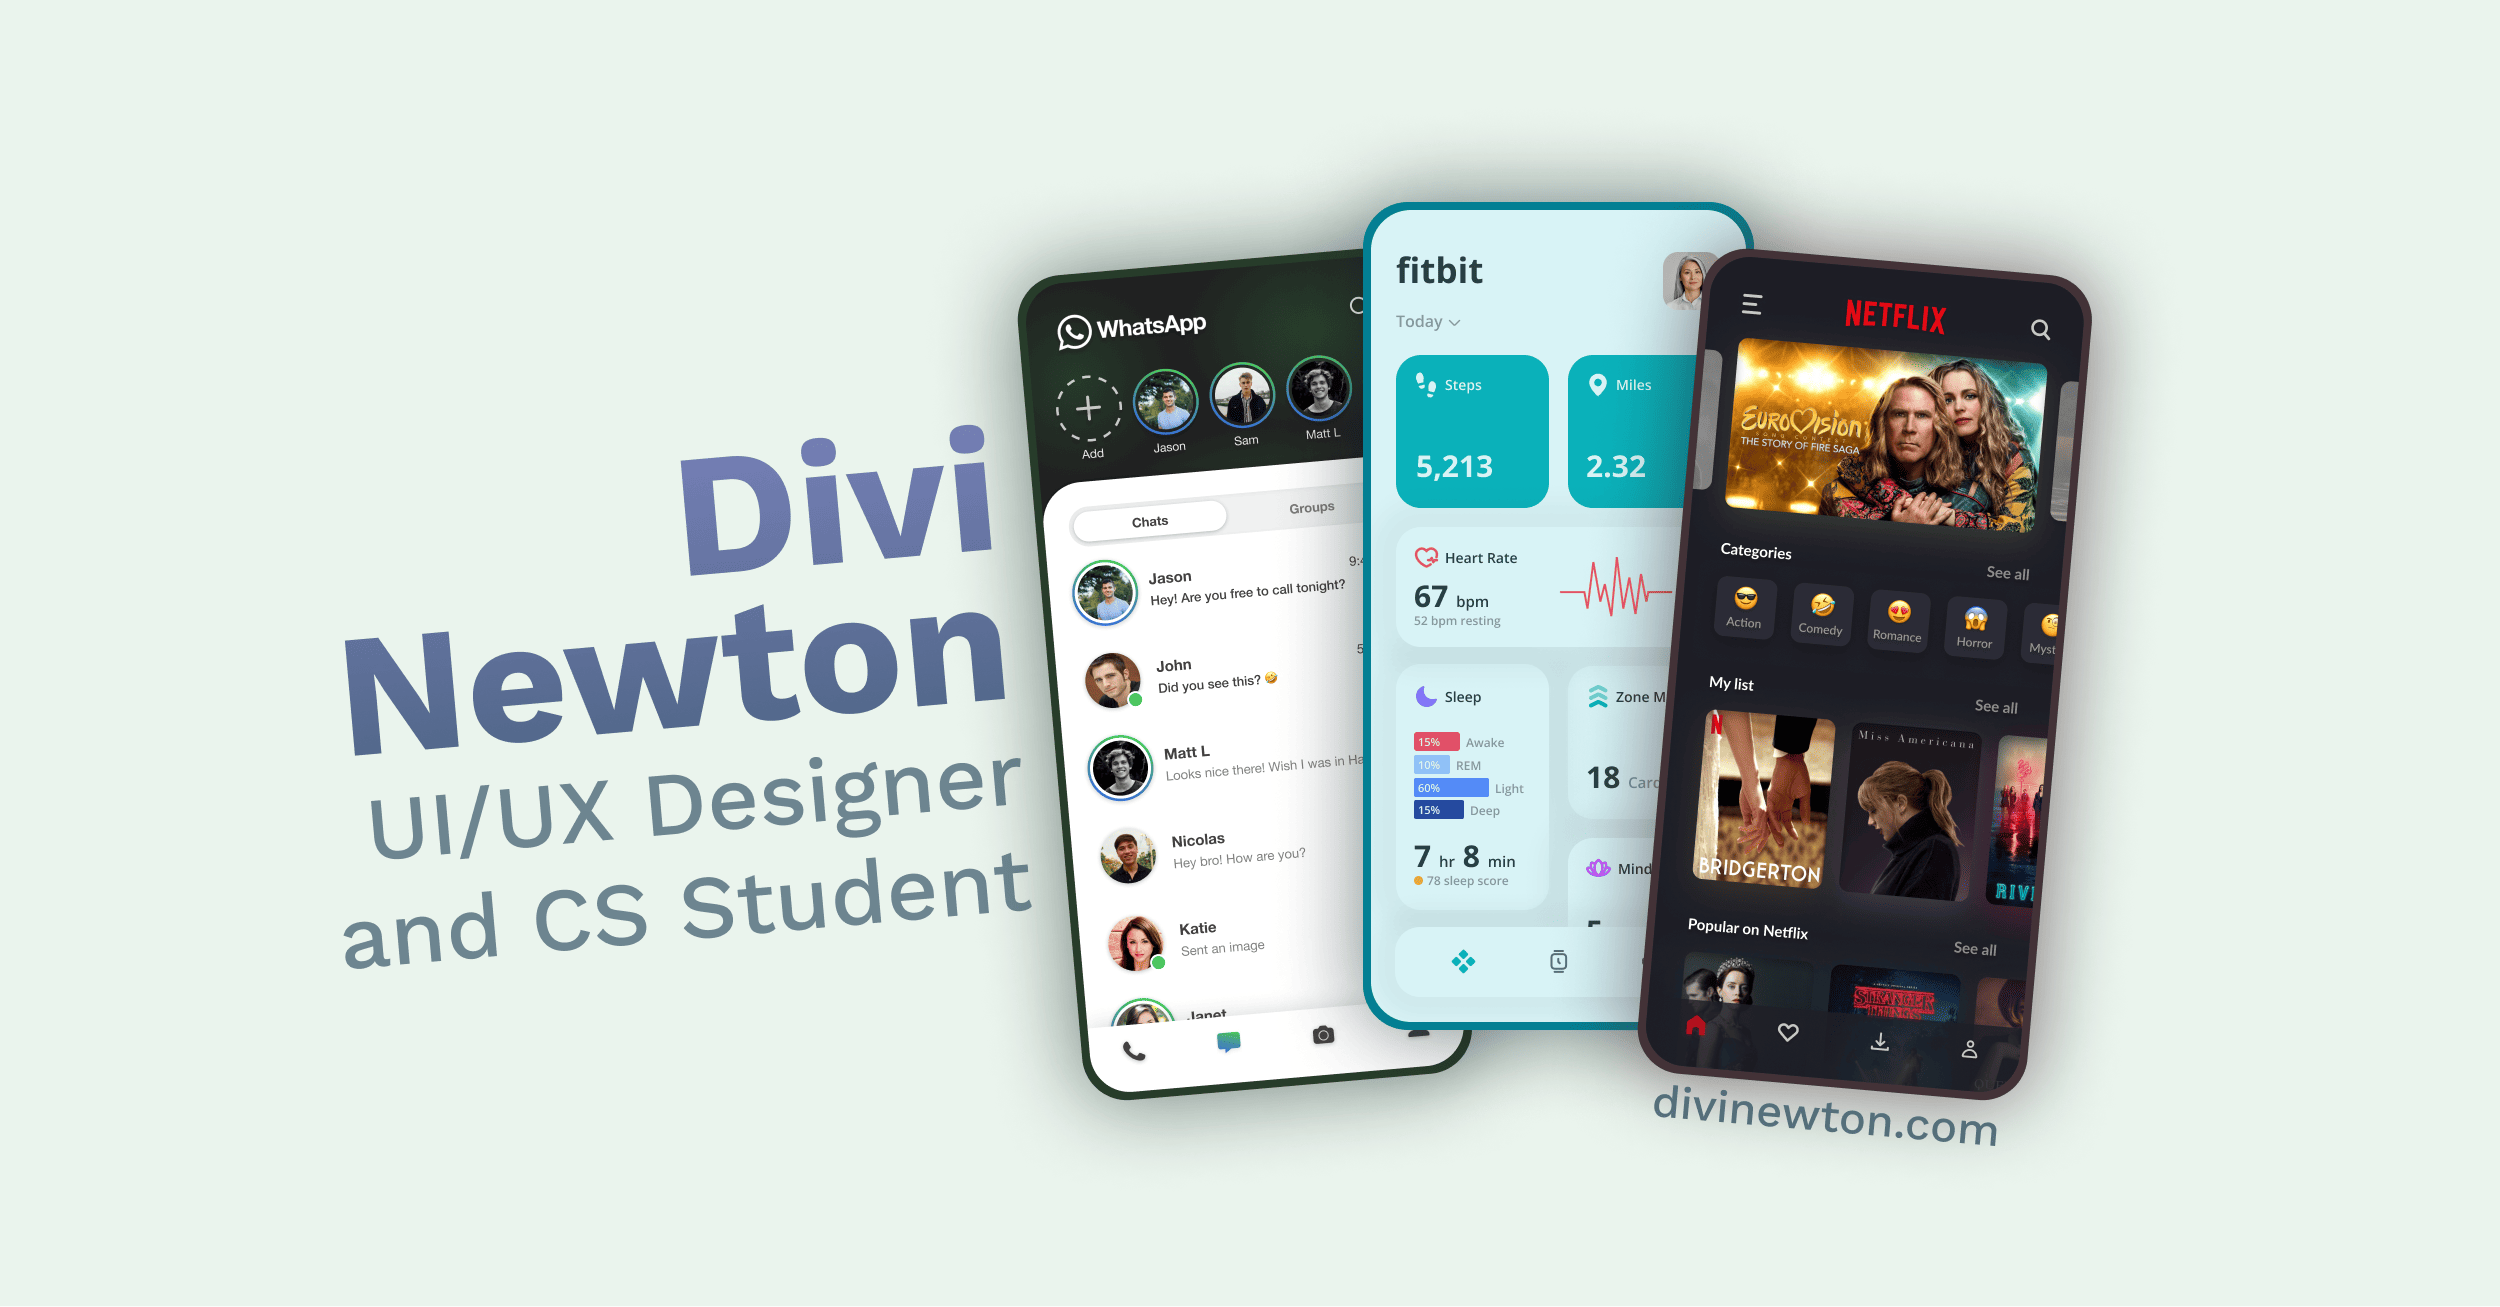
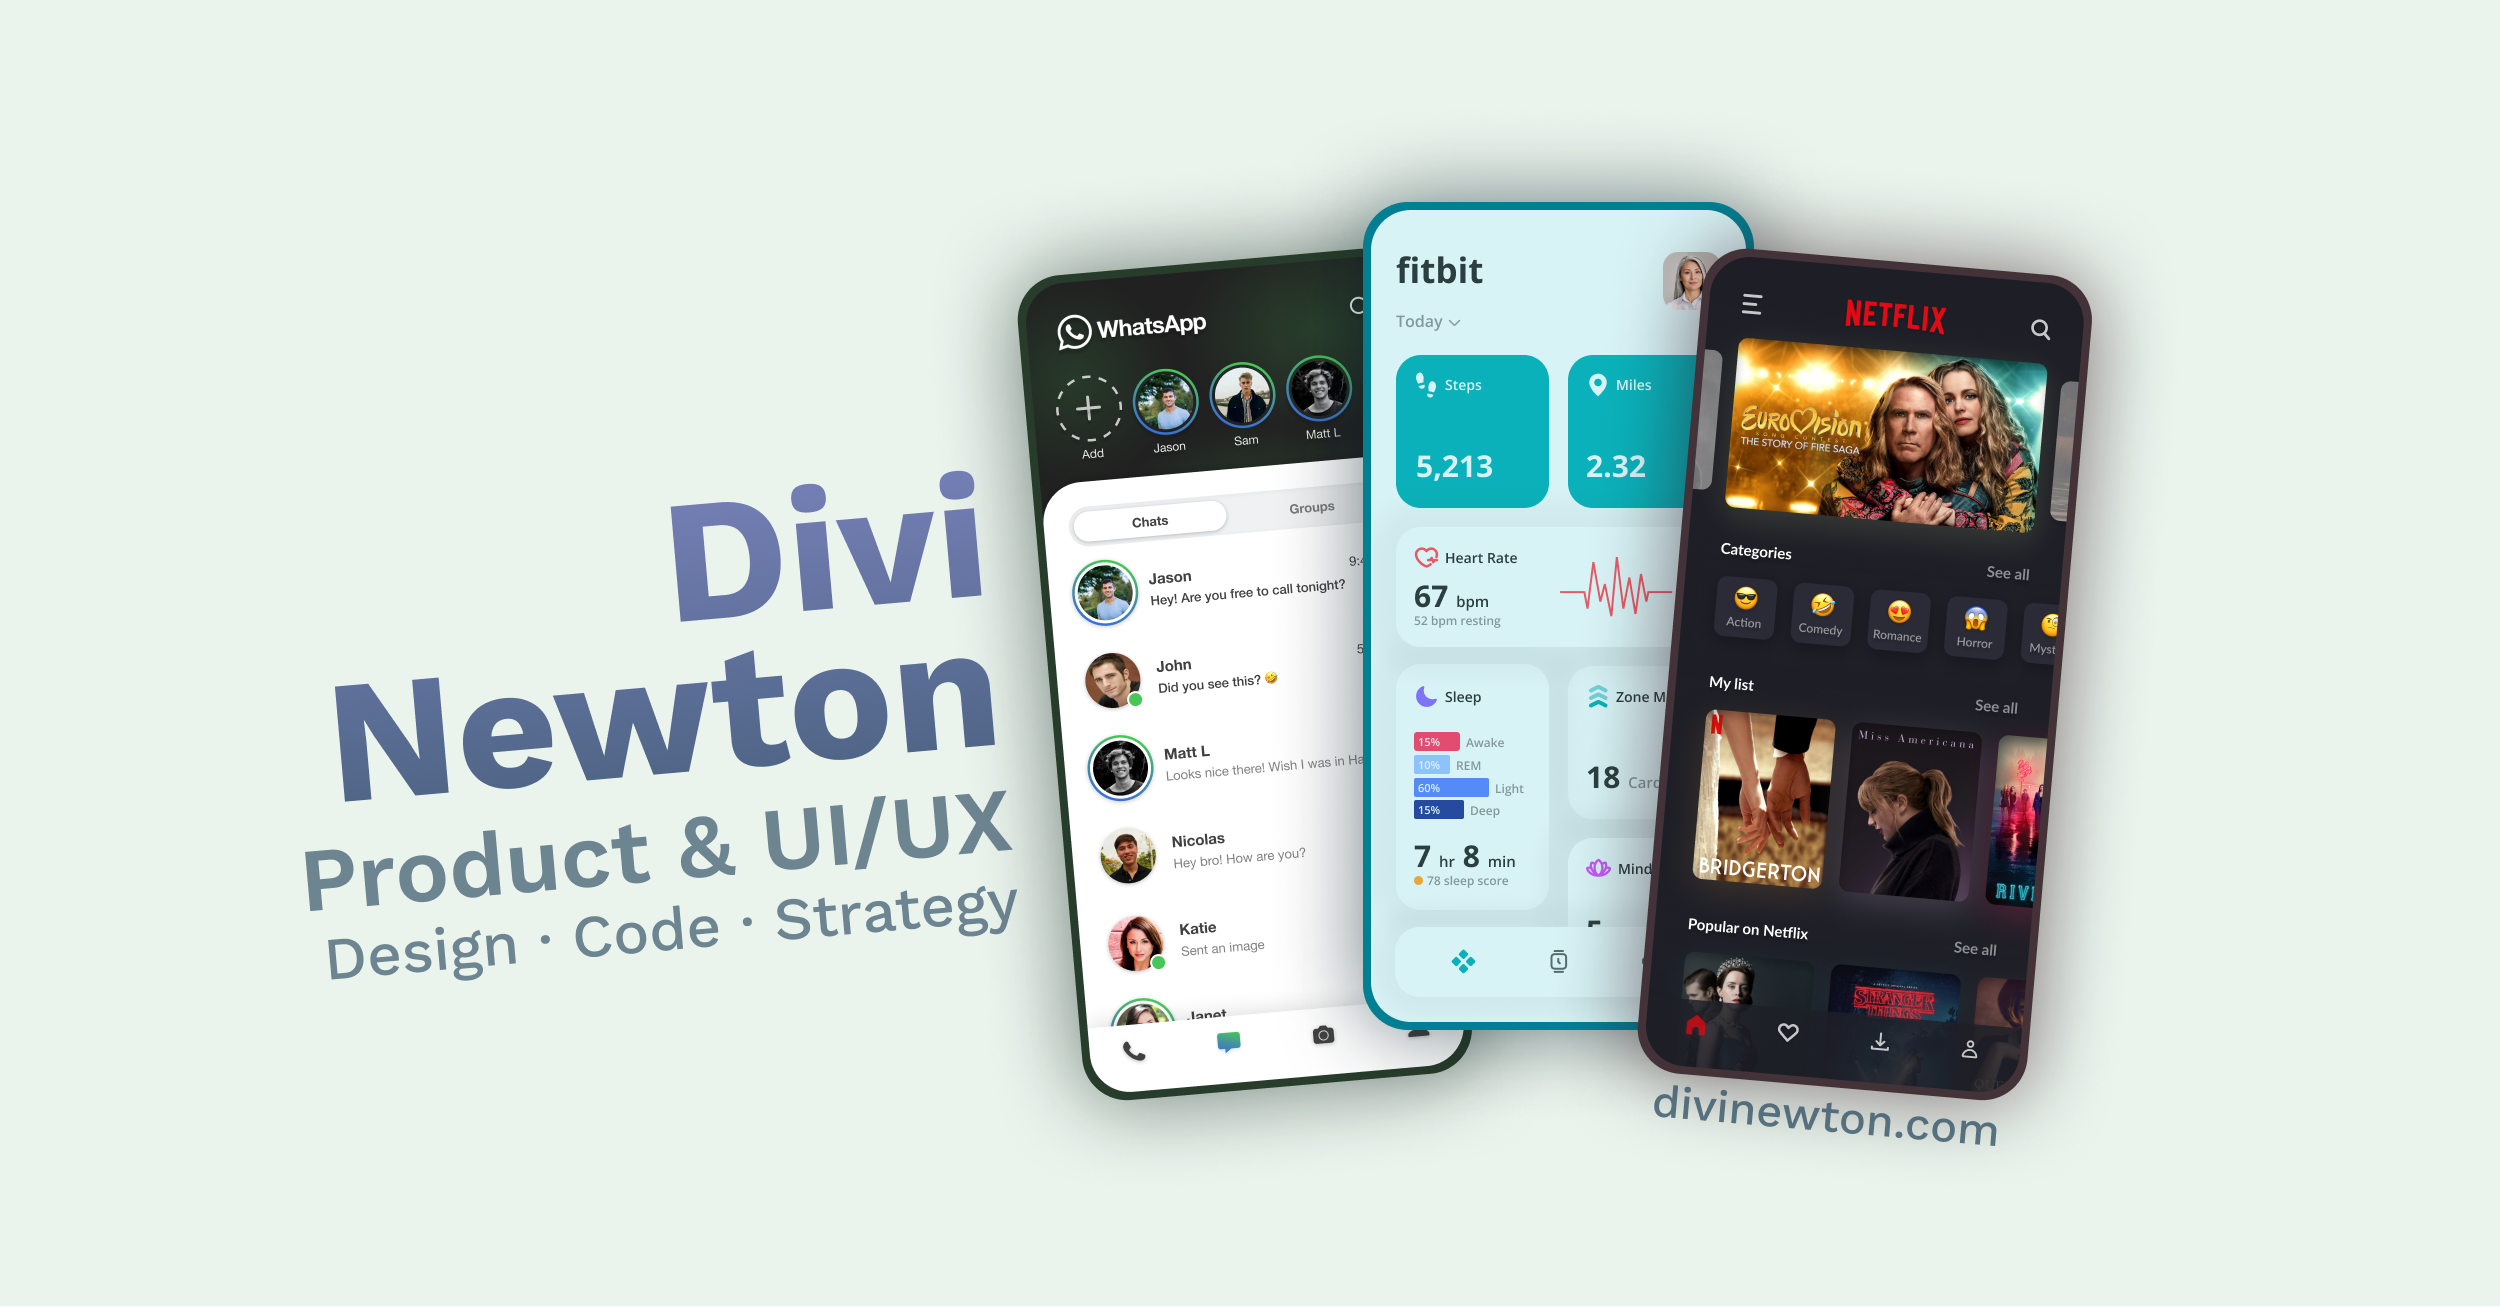
Revise site metadata, about text, and image
Update site title, meta description, Open Graph tags (og:title, og:description, og:site_name) and schema name to the new branding 'Design · Code · Strategy'. Refresh the About paragraph to emphasize product strategy, UI/UX design, and software development as a Computer Science and Graphic Design student. Replace the promo image (images/promo-img.png) with an updated binary.

Changed region(s): [[0.1248, 0.306, 0.4056, 0.7651], [0.78, 0.6121, 0.8112, 0.6427], [0.7488, 0.2754, 0.78, 0.306]]

diff --git a/index.html b/index.html
@@ -4,16 +4,16 @@
         <script>(function(w,d,s,l,i){w[l]=w[l]||[];w[l].push({'gtm.start': new Date().getTime(),event:'gtm.js'});var f=d.getElementsByTagName(s)[0],j=d.createElement(s),dl=l!='dataLayer'?'&l='+l:'';j.async=true;j.src='https://www.googletagmanager.com/gtm.js?id='+i+dl;f.parentNode.insertBefore(j,f);})(window,document,'script','dataLayer','GTM-KBXGCNPB');</script>
         <meta charset="UTF-8">
         <meta name="viewport" content="width=device-width, initial-scale=1.0">
-        <title>Divi Newton - UI/UX Designer and CS Student</title>
-        <meta name="description" content="Hello, I'm Divi. I bridge the gap between arts and sciences by combining technology, design, and knowlege of the world's challenges.">
+        <title>Divi Newton - Design · Code · Strategy</title>
+        <meta name="description" content="Hello, I'm Divi. I am a Computer Science and Graphic Design student at Chapman University, driven by the intersection of product strategy, UI/UX design, and software development.">
         <meta name="author" content="Divi Newton">
 
-        <meta name="og:title" property="og:title" content="Divi Newton - UI/UX Designer and CS Student">
-        <meta name="og:description" property="og:description" content="Hello, I'm Divi. I bridge the gap between arts and sciences by combining technology, design, and knowlege of the world's challenges.">
+        <meta name="og:title" property="og:title" content="Divi Newton - Design · Code · Strategy">
+        <meta name="og:description" property="og:description" content="Hello, I'm Divi. I am a Computer Science and Graphic Design student at Chapman University, driven by the intersection of product strategy, UI/UX design, and software development.">
         <meta name="og:image" property="og:image" content="https://www.divinewton.com/images/promo-img.png">
         <meta name="og:url" property="og:url" content="https://www.divinewton.com">
         <meta name="og:type" property="og:type" content="website">
-        <meta name="og:site_name" property="og:site_name" content="Divi Newton - UI/UX Designer and CS Student">
+        <meta name="og:site_name" property="og:site_name" content="Divi Newton - Design · Code · Strategy">
         
         <link rel="stylesheet" href="style.css">
 
@@ -30,7 +30,7 @@
         <noscript><iframe src="https://www.googletagmanager.com/ns.html?id=GTM-KBXGCNPB" height="0" width="0" style="display:none;visibility:hidden"></iframe></noscript>
         <div itemscope itemtype="https://schema.org/WebSite">
             <meta itemprop="url" content="https://www.divinewton.com"/>
-            <meta itemprop="name" content="Divi Newton - UI/UX Designer and CS Student"/>
+            <meta itemprop="name" content="Divi Newton - Design · Code · Strategy"/>
             <meta itemprop="alternateName" content="Divi Newton"/>
         </div>
         <nav>
@@ -130,7 +130,7 @@
                             <p id="location">California, USA</p>
                         </div>
                         <div id="about-paragraph">
-                            <p>I am a student motivated by effective communication, teamwork, professionalism, and collaboration. As a computer science major at Chapman University, I work to bridge the gap between the arts and sciences by combining knowledge of technology, design, and the social and technological challenges of the world and using skills acquired through education and experience.</p>
+                            <p>I am a Computer Science and Graphic Design student at Chapman University, driven by the intersection of product strategy, UI/UX design, and software development. By combining a product management mindset with UI/UX design and development skills, I transform complex social and technological challenges into intuitive, user-centered digital products.</p>
                         </div>
                         <div id="about-keywords">
                             <div class="about-words">
